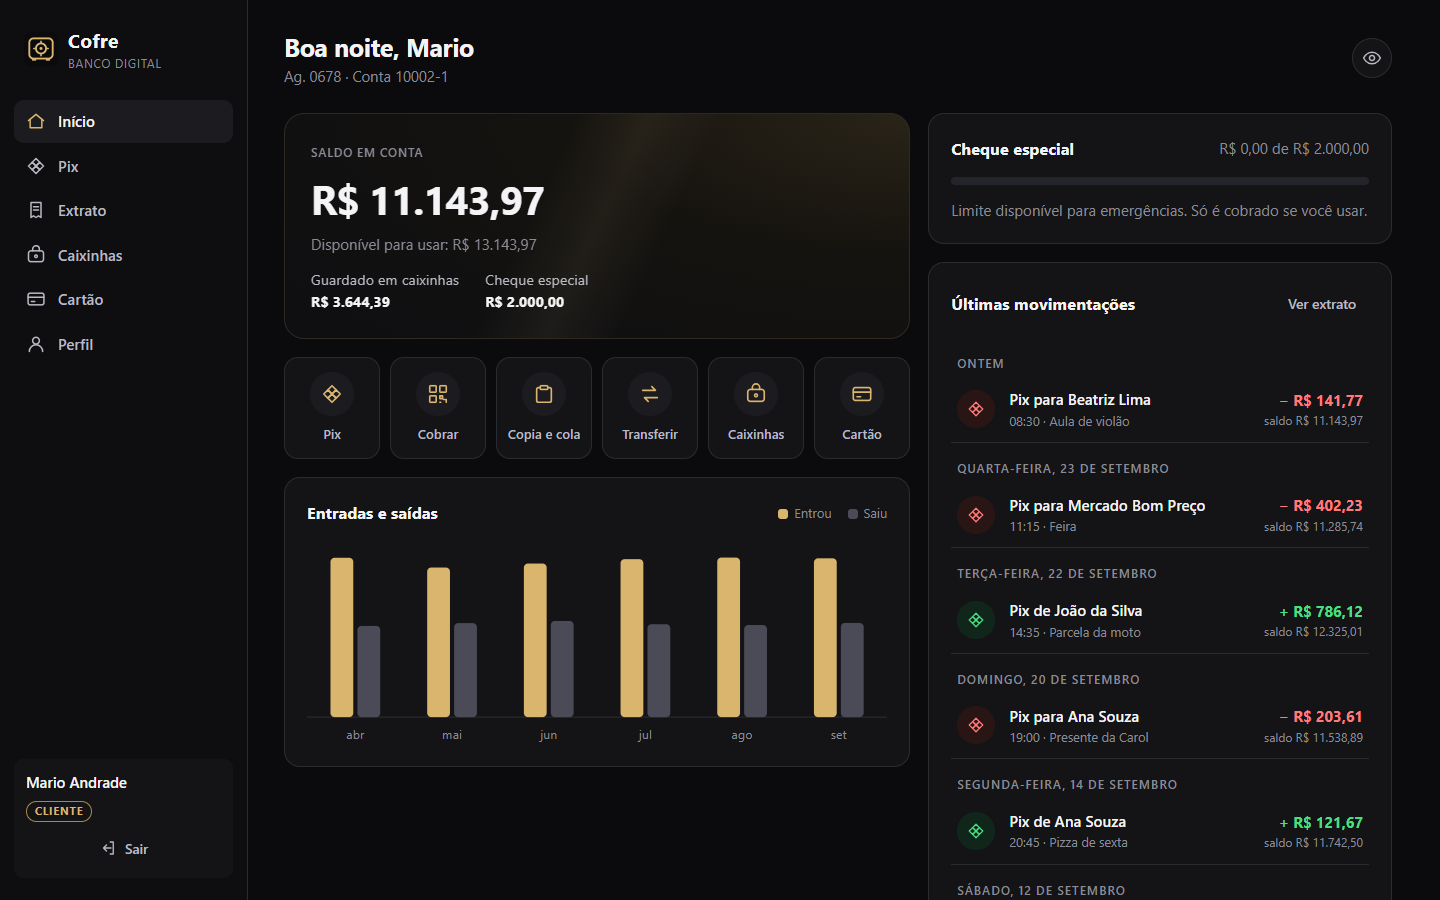
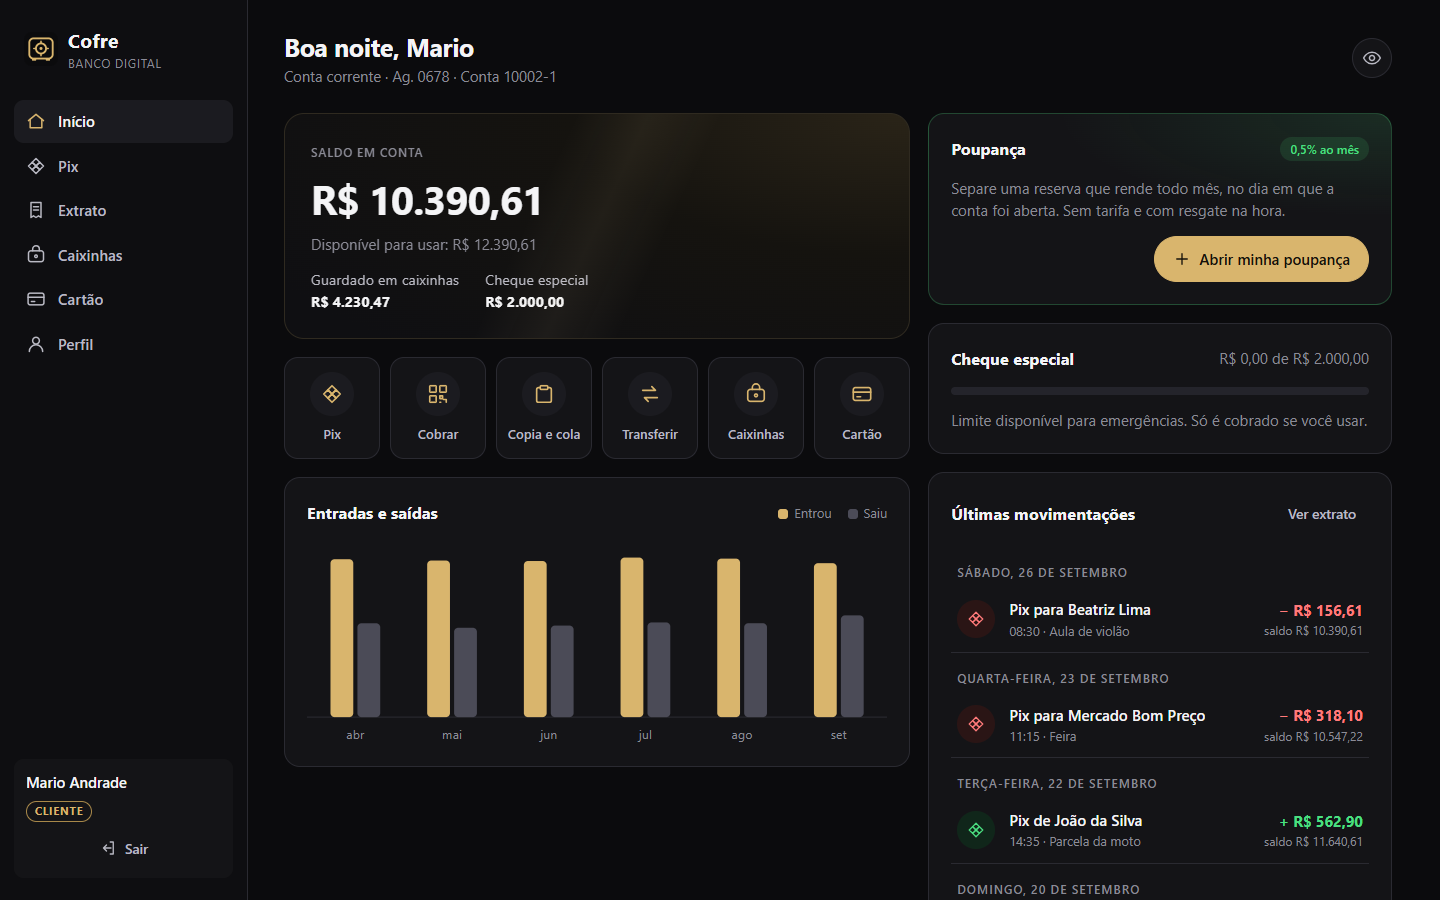
README e Lean Inception: conta poupança, os quatro pilares de POO e novos prints

diff --git a/README.md b/README.md
@@ -14,7 +14,7 @@
   <a href="https://github.com/barbozadevti/cofre/actions/workflows/ci.yml"><img src="https://github.com/barbozadevti/cofre/actions/workflows/ci.yml/badge.svg" alt="CI"></a>
   <img src="https://img.shields.io/badge/Java-21-d9b56d" alt="Java 21">
   <img src="https://img.shields.io/badge/Spring_Boot-4.1-d9b56d" alt="Spring Boot 4.1">
-  <img src="https://img.shields.io/badge/testes-94-d9b56d" alt="94 testes">
+  <img src="https://img.shields.io/badge/testes-114-d9b56d" alt="114 testes">
   <img src="https://img.shields.io/badge/PostgreSQL%20%7C%20H2-Flyway-d9b56d" alt="PostgreSQL e H2 com Flyway">
 </p>
 
@@ -45,6 +45,7 @@ Sem Docker: `mvn spring-boot:run` (JDK 21 + Maven; o banco H2 é criado em `~/.c
 - **Limites do Pix por período**: R$ 1.000,00 das 20h às 6h, como na regra do Banco Central, e R$ 20.000,00 de dia.
 - **Comprovantes** com autenticação no formato *end-to-end ID* do Pix (32 caracteres), prontos para imprimir ou salvar em PDF.
 - **Cheque especial**: o saldo pode ficar negativo até o limite, com **juros de 8% ao mês cobrados por dia** por uma rotina agendada e idempotente.
+- **Conta poupança** aberta pelo próprio app: rende **0,5% ao mês no aniversário** (o dia da abertura; contas abertas de 29 a 31 rendem no dia 1, como na regra real), não tem cheque especial e tem atalhos para **guardar e resgatar**.
 - **Caixinhas** com meta e progresso. Só dinheiro próprio vai para a caixinha, nunca o limite.
 - **Cartão virtual** com número válido pelo algoritmo de Luhn e **CVV dinâmico** que muda a cada 5 minutos (HMAC-SHA256; o CVV não é guardado em lugar nenhum).
 - **Extrato** por período, com saldo anterior, totais e **exportação CSV** pronta para o Excel.
@@ -56,6 +57,10 @@ Sem Docker: `mvn spring-boot:run` (JDK 21 + Maven; o banco H2 é criado em `~/.c
 - **Terminal da agência**: `java -jar cofre.jar --terminal`, com login de caixa ou gerente. É a evolução do desafio original ([java-conta-terminal](https://github.com/barbozadevti/java-conta-terminal)) e mantém as mesmas perguntas na abertura de conta.
 
 <table>
+  <tr>
+    <td><img src="docs/telas/16-poupanca.png" alt="Conta poupança com rendimento previsto"></td>
+    <td><img src="docs/telas/17-extrato-poupanca.png" alt="Extrato da poupança com o rendimento do mês"></td>
+  </tr>
   <tr>
     <td><img src="docs/telas/03-pix-destinatario.png" alt="Pix com confirmação do destinatário"></td>
     <td><img src="docs/telas/04-pix-qrcode.png" alt="Cobrança com QR Code"></td>
@@ -84,6 +89,48 @@ Sem Docker: `mvn spring-boot:run` (JDK 21 + Maven; o banco H2 é criado em `~/.c
   <img src="docs/telas/01-login.png" alt="Login" width="420">
 </p>
 
+## Orientação a objetos: corrente e poupança
+
+O Cofre nasceu de dois desafios de Java: a [conta no terminal](https://github.com/barbozadevti/java-conta-terminal) e o [banco digital com os pilares da orientação a objetos](https://github.com/barbozadevti/java-banco-digital-poo). Do segundo vieram os dois tipos de conta, agora com JPA:
+
+```mermaid
+classDiagram
+    direction LR
+    class Conta {
+        <<abstract>>
+        -saldo: BigDecimal
+        -situacao: SituacaoConta
+        +getTipo()* TipoConta
+        +getLimite()* BigDecimal
+        +disponivel() BigDecimal
+        +creditar(...) Lancamento
+        +debitar(...) Lancamento
+        +encerrar(quando) void
+        #aoEncerrar() void
+    }
+    class ContaCorrente {
+        -limite: BigDecimal
+        +definirLimite(valor) void
+    }
+    class ContaPoupanca {
+        +diaDeAniversario(fuso) int
+        +fazAniversario(dia, fuso) boolean
+        +render(id, quando) Optional~Lancamento~
+    }
+    Conta <|-- ContaCorrente
+    Conta <|-- ContaPoupanca
+    Conta *-- Lancamento
+```
+
+| Pilar | No código |
+|---|---|
+| **Abstração** | `Conta` é abstrata e diz o que toda conta tem (saldo, situação, extrato); não existe "conta genérica". |
+| **Encapsulamento** | O saldo só muda por `creditar` e `debitar`, que validam a operação e devolvem o lançamento do extrato. |
+| **Herança** | `ContaCorrente` e `ContaPoupanca` herdam numeração, extrato, bloqueio e encerramento. No banco, as duas ficam na mesma tabela, diferenciadas pela coluna `tipo` (herança JPA em tabela única, migração `V2`). |
+| **Polimorfismo** | `getLimite()` é o cheque especial na corrente e zero na poupança. Por isso `disponivel()`, Pix, saque e transferência funcionam nas duas sem nenhum `if` de tipo. O encerramento chama o gancho `aoEncerrar()`, que zera o limite só na corrente. |
+
+Onde o tipo importa de verdade (limite do cheque especial, cartão de débito, campos da poupança na API), o código usa *pattern matching* do Java 21 (`conta instanceof ContaCorrente corrente`). O rendimento roda na mesma rotina diária dos juros e é idempotente: o id `REND-<conta>-<ano><mês>` impede pagar duas vezes no mesmo mês.
+
 ## Decisões de engenharia
 
 | Problema | Decisão |
@@ -95,6 +142,7 @@ Sem Docker: `mvn spring-boot:run` (JDK 21 + Maven; o banco H2 é criado em `~/.c
 | Transferência pela metade | Débito e crédito na mesma transação: ou as duas contas mudam, ou nenhuma. |
 | Descobrir contas de outros clientes | Conta alheia responde **404** (e não 403), para não revelar que o número existe. |
 | Regras de acesso espalhadas | O perfil é checado nos serviços, e não só nas rotas, então vale igual no site, na API e no terminal. |
+| Dois tipos de conta sem duplicar código | `Conta` abstrata com herança JPA em tabela única; o comportamento que muda (limite, disponível, encerramento) fica em métodos sobrescritos. |
 | Juros cobrados duas vezes | O id da transação de juros é derivado da conta e do dia (`JUROS-10004-8-20260926`): rodar a rotina de novo não duplica. |
 | Senha fraca ou vazada | BCrypt, política de senha, **bloqueio de 15 minutos após 5 erros**, mensagem única para "usuário não existe" e "senha errada" (com o mesmo tempo de resposta) e troca obrigatória da senha provisória. |
 | Sessão ou JWT? | **Sessão com cookie HttpOnly + SameSite e CSRF no padrão SPA.** Para um app servido pelo próprio backend, é mais seguro que guardar JWT no navegador e permite encerrar a sessão no servidor. |
@@ -115,7 +163,7 @@ flowchart LR
     SRV[Serviços<br>Conta · Pix · Caixinha · Cartão · Gerência]
     DOM[Domínio<br>Conta · Lançamento · Dinheiro · BR Code]
     AUD[Auditoria]
-    JOB[Juros diários<br>@Scheduled]
+    JOB[Juros e rendimentos<br>@Scheduled]
   end
   DB[(PostgreSQL ou H2<br>migrações Flyway)]
   WEB --> SEG --> SRV
@@ -129,8 +177,8 @@ flowchart LR
 
 ```
 src/main/java/dev/barboza/cofre/
-├── dominio/     Conta, Lancamento, Cliente, Dinheiro, Cpf, NumeroConta, IdTransacao
-├── servico/     ContaService, GerenciaService, PainelService, JurosChequeEspecial, Acesso
+├── dominio/     Conta (abstrata), ContaCorrente, ContaPoupanca, Lancamento, Cliente, Dinheiro, Cpf, NumeroConta
+├── servico/     ContaService, GerenciaService, PainelService, JurosChequeEspecial, RendimentoPoupanca, Acesso
 ├── pix/         PixService, ChavePix, BrCode (EMV + CRC16), QrCodeSvg
 ├── caixinha/    Caixinha e serviço
 ├── cartao/      Cartão virtual, Luhn e CVV dinâmico
@@ -150,24 +198,25 @@ src/main/resources/
 mvn verify
 ```
 
-**94 testes**, rodando com o idioma da máquina em português para pegar qualquer formatação que dependa dele. No CI, a mesma bateria roda também contra o **PostgreSQL**, e um terceiro job sobe o **Docker Compose** e faz login de verdade.
+**114 testes**, rodando com o idioma da máquina em português para pegar qualquer formatação que dependa dele. No CI, a mesma bateria roda também contra o **PostgreSQL**, e um terceiro job sobe o **Docker Compose** e faz login de verdade.
 
 | Área | Exemplos do que é verificado |
 |---|---|
 | Domínio | Cheque especial, bloqueio, encerramento, juros, CPF, celular, dígito da conta, formato do id de transação |
+| Poupança | Disponível sem limite, aniversário (inclusive 29 a 31 virando dia 1), rendimento com arredondamento bancário, crédito idempotente, uma poupança por cliente, sem limite e sem cartão |
 | BR Code | Gera **exatamente** o exemplo da documentação do Pix (CRC `1D3D`), lê, e recusa código alterado |
 | Pix | Chaves (tipos, limite de 5, duplicidade), consulta com CPF mascarado, limite noturno com relógio controlado, copia e cola |
 | Segurança | 401 sem login, 403 sem CSRF, cada perfil só na sua área, 404 para conta alheia, bloqueio após 5 senhas erradas, trava da senha provisória |
 | API | Login real com sessão, idempotência do Pix, `problem+json`, CSV byte a byte |
 | Concorrência | 20 saques simultâneos na mesma conta |
 | Terminal | Roteiros de caixa e gerente, abertura com as perguntas do desafio original |
-| Demonstração | Seis meses de histórico e um cliente no cheque especial com juros |
+| Demonstração | Seis meses de histórico, duas poupanças rendendo todo mês e um cliente no cheque especial com juros |
 
 Os valores esperados de CPF, dígito verificador e BR Code vêm de fontes independentes (documentação do Banco Central e uma implementação separada), não do próprio código testado.
 
 ## API
 
-39 rotas, documentadas em `/swagger-ui.html`. Os erros seguem a RFC 9457 (`application/problem+json`), em português:
+40 rotas, documentadas em `/swagger-ui.html`. Os erros seguem a RFC 9457 (`application/problem+json`), em português:
 
 | Situação | Status |
 |---|---|
@@ -182,4 +231,4 @@ Os valores esperados de CPF, dígito verificador e BR Code vêm de fontes indepe
 
 ## Produto
 
-As decisões de escopo e a ordem das entregas estão na [Lean Inception](docs/lean-inception.md). Das oito ondas planejadas, sete já foram entregues.
+As decisões de escopo e a ordem das entregas estão na [Lean Inception](docs/lean-inception.md). Das nove ondas planejadas, oito já foram entregues.

diff --git a/docs/lean-inception.md b/docs/lean-inception.md
@@ -104,7 +104,8 @@
 | 5 | Login com perfis, cheque especial com juros, backoffice e auditoria | Entregue |
 | 6 | Pix completo (chaves, BR Code, limites, comprovantes), caixinhas, cartão virtual | Entregue |
 | 7 | PostgreSQL com Flyway, Docker Compose, OpenAPI, novo visual | Entregue |
-| 8 | Notificações por e-mail, autenticação em dois fatores, limites de Pix ajustáveis pelo cliente | Próxima |
+| 8 | Conta poupança (herança de contas, rendimento no aniversário, abertura pelo app) | Entregue |
+| 9 | Notificações por e-mail, autenticação em dois fatores, limites de Pix ajustáveis pelo cliente | Próxima |
 
 ## 8. MVP
 
